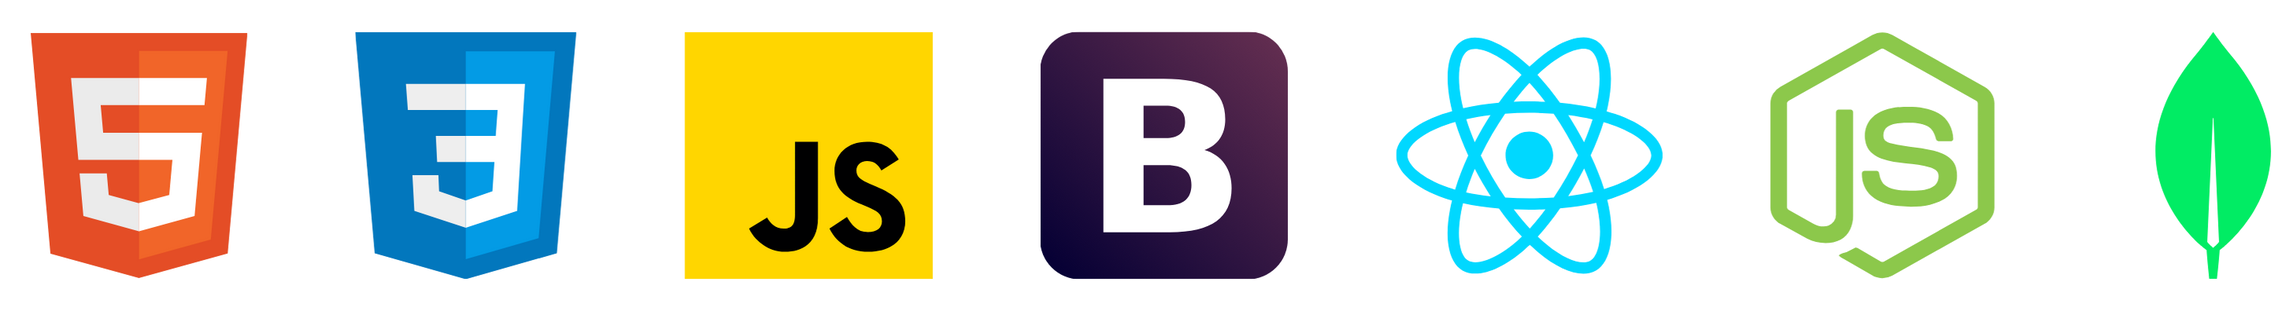
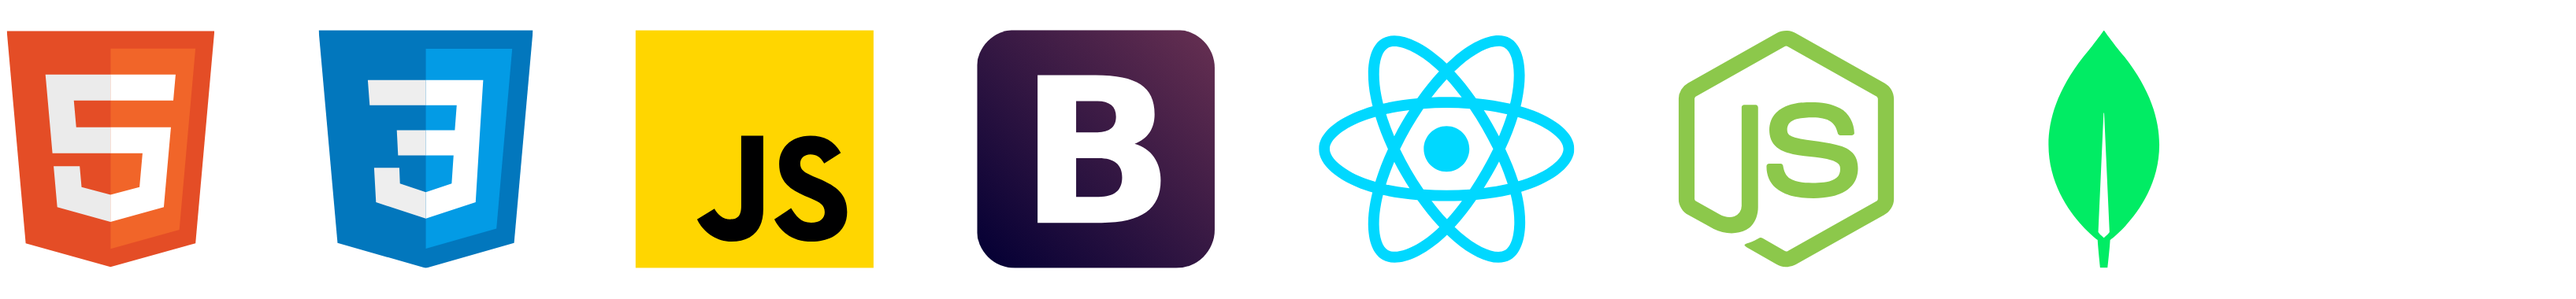
updated read me

diff --git a/src/data/timelineData.js b/src/data/timelineData.js
@@ -4,13 +4,13 @@ import { faDna, faGraduationCap, faMicroscope } from '@fortawesome/free-solid-sv
 export const timelineData = [
     {
         index: 0,
-        date: 'JAN 2023 - PRESENT',
+        date: 'DEC 2022 - PRESENT',
         title: 'Full Stack Developer',
         subtitle: 'San Diego, CA',
         p: [
             {
                 link: false,
-                text: `I enrolled in `,
+                text: `I embarked my web development journey with an introductory HTML, CSS, and JavaScript course. Finding the content captivating, I enrolled in `,
             },
             {
                 link: 'https://www.nucamp.co/bootcamp-overview/full-stack-web-mobile-development',
@@ -18,7 +18,7 @@ export const timelineData = [
             },
             {
                 link: false,
-                text: ` and graduated in June with an Honors certificate. After graduating, I studied data structures and algorithms on the side and continued working on projects (see Projects section).`,
+                text: ` and graduated in June with an Honors certificate; the bootcamp emphasized Bootstrap, React, React Native, Node.js, Express, and MongoDB.  After graduating, I studied data structures and algorithms on the side to bolster my computer science knowledge while continuing to build full-stack projects (see Projects section below).`,
             },
         ],
         icon: faReact,
@@ -31,7 +31,7 @@ export const timelineData = [
         p: [
             {
                 link: false,
-                text: `I joined `,
+                text: `Initially joining `,
             },
             {
                 link: 'https://www.crownbio.com/',
@@ -39,7 +39,7 @@ export const timelineData = [
             },
             {
                 link: false,
-                text: ` as a Study Coordinator eventually promoted to a Study Director. After some time, I transitioned to the Project Manager role, which is my current role today.`,
+                text: ` as a Study Coordinator, I worked across departments to ensure smooth daily operations and plan future initiatives. Progressing to a Study Director, I continued these responsibilities at a higher level and also collaborated closely with various pharmaceutical clients in drafting study protocols and concluding reports. Now as a Project Manager, I focus on revenue milestones and develop documentation to improve operational processes.`,
             },
         ],
         icon: faMicroscope,
@@ -60,7 +60,15 @@ export const timelineData = [
             },
             {
                 link: false,
-                text: `, I seized the chance to further explore bio research through the BS/MS Program. This involved defending a thesis based on my research on corticosterone's impact on stress-induced inhibition of neuronal activation. `,
+                text: `, I embraced the opportunity to explore bio research through the BS/MS Program. This included defending a thesis focused on my research in corticosterone's impact on stress-induced inhibition of neuronal activation. `,
+            },
+            {
+                link: 'https://escholarship.org/content/qt6q719888/qt6q719888.pdf?t=q89epl',
+                text: `Click here`,
+            },
+            {
+                link: false,
+                text: ` to see my Master's Thesis!`,
             },
         ],
         icon: faDna,
@@ -73,7 +81,7 @@ export const timelineData = [
         p: [
             {
                 link: false,
-                text: `I miraculously got accepted to the great University of California, San Diego! I was truly blessed by the year-round sunny weather, amazing Mexican food, and beautiful beaches that were a little too overcrowded on the weekends. As I studied Physiology and Neuroscience, I joined the Kauffman Lab during my fourth year.`,
+                text: `In addition to academics and research, I was blessed by the year-round sunny weather, outstanding Mexican food, and beautiful beaches that were perhaps too overcrowded on the weekends. As I studied Physiology and Neuroscience, I joined the Kauffman Lab during my fourth year.`,
             },
         ],
         icon: faGraduationCap,
@@ -86,7 +94,7 @@ export const timelineData = [
         p: [
             {
                 link: false,
-                text: `I'd say this is the inception of my passion for coding. Thanks Mr. Ferrante for a fun course! I regret not having pursued computer science in college, but I have to trust that everything happens for a reason.`,
+                text: `Although software engineering remained dormant throughout my college, grad school, and early years of work, high school was the inception of my innate passion for coding. Thanks Mr. Ferrante for a fun course! Although I didn't pursue computer science in college, I am grateful to still have the opportunity today to dive into this field.`,
             },
         ],
         icon: faJava,

diff --git a/src/data/projectsData.js b/src/data/projectsData.js
@@ -7,7 +7,7 @@ export const projectsData = [
         description: [
             {
                 link: false,
-                text: `Inspired to create my own Etsy Shop (`,
+                text: `With a vision to reduce fees and enhance profits, I utilized a MongoDB-Express-React-Node.JS (MERN) stack inspired by own Etsy shop (`,
             },
             {
                 link: 'https://www.etsy.com/shop/DigiWitz',
@@ -15,8 +15,8 @@ export const projectsData = [
             },
             {
                 link: false,
-                text: ') outside of the Etsy platform, I leveraged MongoDB-Express-React-Node.JS (MERN) stack technologies to ultimately minimize Etsy fees and maximize potential profits.'
-            }
+                text: ') to optimize operations. Employing Passport for secure session management and Cloudinary for image assets, I developed intuitive React interfaces and managed sensitive data flow with MongoDB. The administrator can oversee orders, manage products, and track billing, while users enjoy features like Cart management, order history, and reviews. Public access is limited to viewing products and the shop.'
+            },
         ],
         img: fetsyImage,
         previewLink: 'https://www.fetsyshoponline.com/',
@@ -28,7 +28,39 @@ export const projectsData = [
         description: [
             {
                 link: false,
-                text: `I developed a MERN project inspired by the Board Game Geek website, focusing on mastering the Board Game Atlas (BGA) API and integrating server-side data via Fetch API.`,
+                text: `I delved into my passion for board games by developing a MERN project inspired by the `,
+            },
+            {
+                link: 'https://boardgamegeek.com/',
+                text: `Board Game Geek`
+            },
+            {
+                link: false,
+                text: ` website. I focused on understanding/employing the Board Game Atlas (BGA) API and integrating server-side data via Fetch API. The public can view user-made posts and create/update/delete posts themselves! The feature to browse games and forums from the BGA API was disbanded in `,
+            },
+            {
+                link: 'https://www.boardgameatlas.com/',
+                text: `August 2023 when BGA shut down their site.`,
+            },
+            {
+                link: false,
+                text: ` However, you can see these features in my `
+            },
+            {
+                link: 'https://www.youtube.com/watch?v=7rcgtf09-GE&ab_channel=Nucamp',
+                text: `Frontend`
+            },
+            {
+                link: false,
+                text: ` and `
+            },
+            {
+                link: 'https://www.youtube.com/watch?v=LIQ2m-LoLks&ab_channel=Nucamp',
+                text: `Backend`
+            },
+            {
+                link: false,
+                text: ` presentations for my Nucamp Honors Certificate.`
             },
         ],
         img: boredgamesgaloreImage,

diff --git a/src/about/MySkills.js b/src/about/MySkills.js
@@ -4,11 +4,13 @@ const MySkills = () => {
     return (
         <>
             <h1 className='text-center pt-5' id='mySkills'>My Skills</h1>
-            <p>My frontend skills include: HTML, CSS, JavaScript, Bootstrap, React.</p>
-            <p>Although primarily interested in frontend positions, I have some backend skills as well, including: Node.JS, Express, MongoDB/Mongoose, REST APIs. </p>
+            <p><strong className='strong-lightblue'>Frontend:</strong> HTML, CSS, JavaScript, Bootstrap, React, Fetch API, Axios, Cloudinary, Responsive Web Design.</p>
+            <p><strong className='strong-lightblue'>Backend:</strong> Node.JS, Express, MongoDB/Mongoose, Passport, Sessions, Postman. </p>
+            <p><strong className='strong-lightblue'>General:</strong> REST APIs, Version Control (Git/Github), Proactive Learner, Team Player, Strong Communicator, Fun Attitude, Witty One-Liners.</p>
+
             <img
                 src={technologyIcons}
-                style={{ width: '15rem' }}
+                style={{ width: '20rem' }}
                 alt='frontend and backend technology icons learned'
             />
         </>

diff --git a/src/data/introData.js b/src/data/introData.js
@@ -17,7 +17,7 @@ export const introData = [
     },
     {
         title: 'A Lifelong Learner',
-        p: 'Seeking to not only answer problems, but also understand the question and underlying processes completely.',
+        p: 'Seeking to not only solve problems, but also understand the questions and processes completely.',
         img: {
             id: 'learner',
             imgSrc: learner,
@@ -26,7 +26,7 @@ export const introData = [
     },
     {
         title: 'An Effective Communicator',
-        p: 'Articulating my thoughts and questions clearly (online and in person) and listening attentively.',
+        p: 'Articulating my thoughts, comments, and questions clearly (online & in person) and listening attentively.',
         img: {
             id: 'communicator',
             imgSrc: communicator,

diff --git a/src/components/MyProjects.js b/src/components/MyProjects.js
@@ -51,7 +51,10 @@ const MyProjects = () => {
             <Row>
                 <Col>
                     <h3 className='mt-3'>Mint Replacement App (in progress)</h3>
-                    <p>Collaborative effort with another developer.</p>
+                    <p>
+                        I am currently working on a project with another developer to create a{' '}
+                        <a href='https://mint.intuit.com/' className='anchor-lightblue' target='_blank' rel='noreferrer'>Mint</a>
+                        {' '}replacement app, since the app is being shut down. This app can track your spending, categorize them, and help your overall budgeting with a seamless user interface.</p>
                 </Col>
             </Row>
         </Container>

diff --git a/src/components/AboutMe.js b/src/components/AboutMe.js
@@ -1,6 +1,6 @@
 import { Col, Container, Row } from 'reactstrap';
 import 'react-vertical-timeline-component/style.min.css';
-import Timeline from './Timeline';
+import Timeline from '../about/Timeline';
 import MySkills from '../about/MySkills';
 import MyJourney from '../about/MyJourney';
 
@@ -11,7 +11,7 @@ const AboutMe = () => {
                 <Col>
                     <MySkills />
                     <MyJourney />
-                    <p>Below is a timeline of my professional and educational background.</p>
+                    <h4 className='text-center'>Below is a timeline of my professional and educational background.</h4>
                     <Timeline />
                 </Col>
             </Row>

diff --git a/src/components/ContactMe.js b/src/components/ContactMe.js
@@ -48,6 +48,7 @@ const ContactMe = () => {
             <Row>
                 <Col>
                     <h1 className='text-center pt-5' id='contactMe'>Contact Me</h1>
+                    <p>Thank you for reviewing my portfolio. I'm enthusiastic about contributing to innovative projects and am eager to join a dynamic team as a full-time developer. If you're interested in discussing potential opportunities or have any questions, please feel free to reach out using the form below. I look forward to the possibility of collaborating with you!</p>
                 </Col>
             </Row>
             <Form innerRef={form} onSubmit={handleSubmit}>

diff --git a/src/App.css b/src/App.css
@@ -10,7 +10,7 @@ body {
 
 .homepage-banner {
     width: 100%;
-    max-width: 1200px;
+    max-width: 1350px;
 }
 
 .intro-section-image {

diff --git a/README.md b/README.md
@@ -1,70 +1,14 @@
-# Getting Started with Create React App
+# Portfolio React App
+
+Welcome to my Portfolio React Application, where I showcase my prowess as a full-stack developer alongside my unique personality and professional journey. Through this platform, I invite you to explore my creative projects and gain a glimpse of the skills I've cultivated along the way.
+
+In essence, I embody the traits of a tenacious hardworker, a lifelong learner, and an effective communicator. These qualities have been finely honed throughout my educational and biotech journey, and I'm confident they translate seamlessly into any web developer role. With a versatile skill set spanning frontend, backend, and beyond, I'm well-equipped for any junior/entry-level developer position. 
+
+I acknowledge that my journey is just beginning, and while I may not have all the answers (and likely never will, if I'm being honest), I am committed to the ongoing pursuit of knowledge, driven by curiosity and a passion for assisting others.
+
+Among my standout projects are Fetsy, an innovative online e-commerce platform, and a dynamic board game site where users can share their gaming experiences and insights.
+
+Should you wish to connect, I welcome you to reach out via the contact form conveniently located at the end of my portfolio page. Let's embark on a journey of collaboration and creativity together!
+
 
 This project was bootstrapped with [Create React App](https://github.com/facebook/create-react-app).
-
-## Available Scripts
-
-In the project directory, you can run:
-
-### `npm start`
-
-Runs the app in the development mode.\
-Open [http://localhost:3000](http://localhost:3000) to view it in your browser.
-
-The page will reload when you make changes.\
-You may also see any lint errors in the console.
-
-### `npm test`
-
-Launches the test runner in the interactive watch mode.\
-See the section about [running tests](https://facebook.github.io/create-react-app/docs/running-tests) for more information.
-
-### `npm run build`
-
-Builds the app for production to the `build` folder.\
-It correctly bundles React in production mode and optimizes the build for the best performance.
-
-The build is minified and the filenames include the hashes.\
-Your app is ready to be deployed!
-
-See the section about [deployment](https://facebook.github.io/create-react-app/docs/deployment) for more information.
-
-### `npm run eject`
-
-**Note: this is a one-way operation. Once you `eject`, you can't go back!**
-
-If you aren't satisfied with the build tool and configuration choices, you can `eject` at any time. This command will remove the single build dependency from your project.
-
-Instead, it will copy all the configuration files and the transitive dependencies (webpack, Babel, ESLint, etc) right into your project so you have full control over them. All of the commands except `eject` will still work, but they will point to the copied scripts so you can tweak them. At this point you're on your own.
-
-You don't have to ever use `eject`. The curated feature set is suitable for small and middle deployments, and you shouldn't feel obligated to use this feature. However we understand that this tool wouldn't be useful if you couldn't customize it when you are ready for it.
-
-## Learn More
-
-You can learn more in the [Create React App documentation](https://facebook.github.io/create-react-app/docs/getting-started).
-
-To learn React, check out the [React documentation](https://reactjs.org/).
-
-### Code Splitting
-
-This section has moved here: [https://facebook.github.io/create-react-app/docs/code-splitting](https://facebook.github.io/create-react-app/docs/code-splitting)
-
-### Analyzing the Bundle Size
-
-This section has moved here: [https://facebook.github.io/create-react-app/docs/analyzing-the-bundle-size](https://facebook.github.io/create-react-app/docs/analyzing-the-bundle-size)
-
-### Making a Progressive Web App
-
-This section has moved here: [https://facebook.github.io/create-react-app/docs/making-a-progressive-web-app](https://facebook.github.io/create-react-app/docs/making-a-progressive-web-app)
-
-### Advanced Configuration
-
-This section has moved here: [https://facebook.github.io/create-react-app/docs/advanced-configuration](https://facebook.github.io/create-react-app/docs/advanced-configuration)
-
-### Deployment
-
-This section has moved here: [https://facebook.github.io/create-react-app/docs/deployment](https://facebook.github.io/create-react-app/docs/deployment)
-
-### `npm run build` fails to minify
-
-This section has moved here: [https://facebook.github.io/create-react-app/docs/troubleshooting#npm-run-build-fails-to-minify](https://facebook.github.io/create-react-app/docs/troubleshooting#npm-run-build-fails-to-minify)
